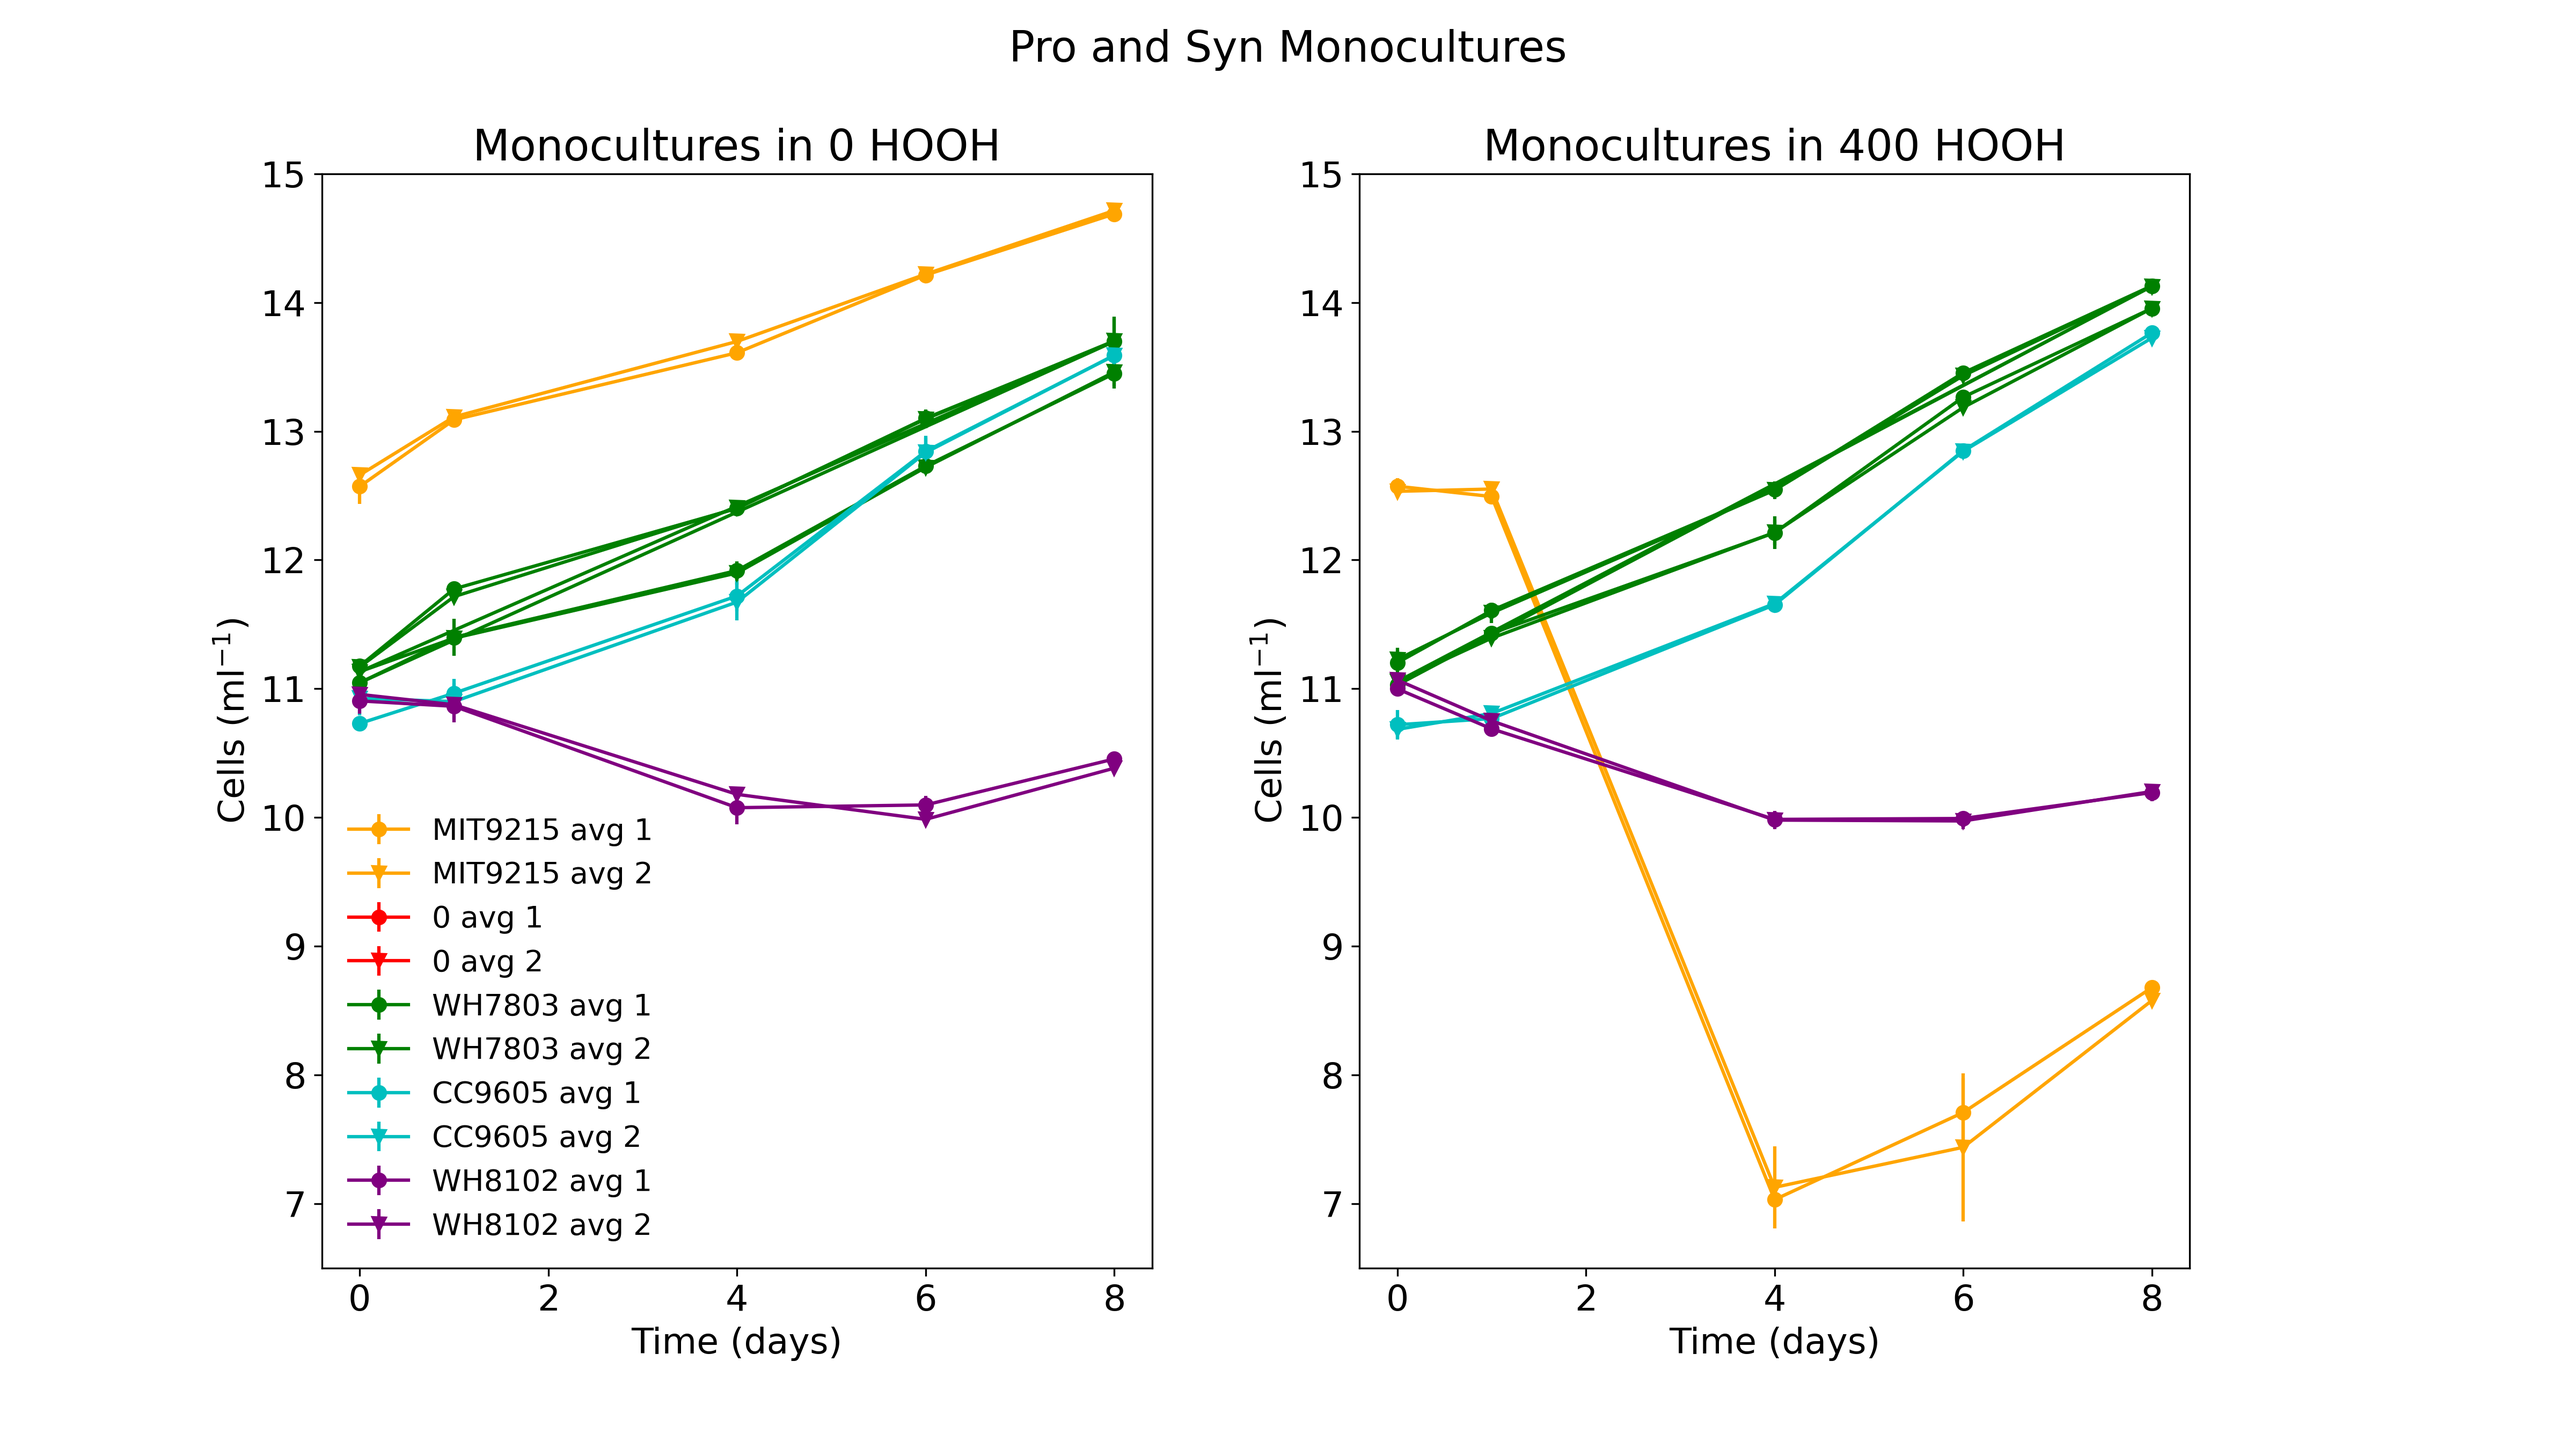
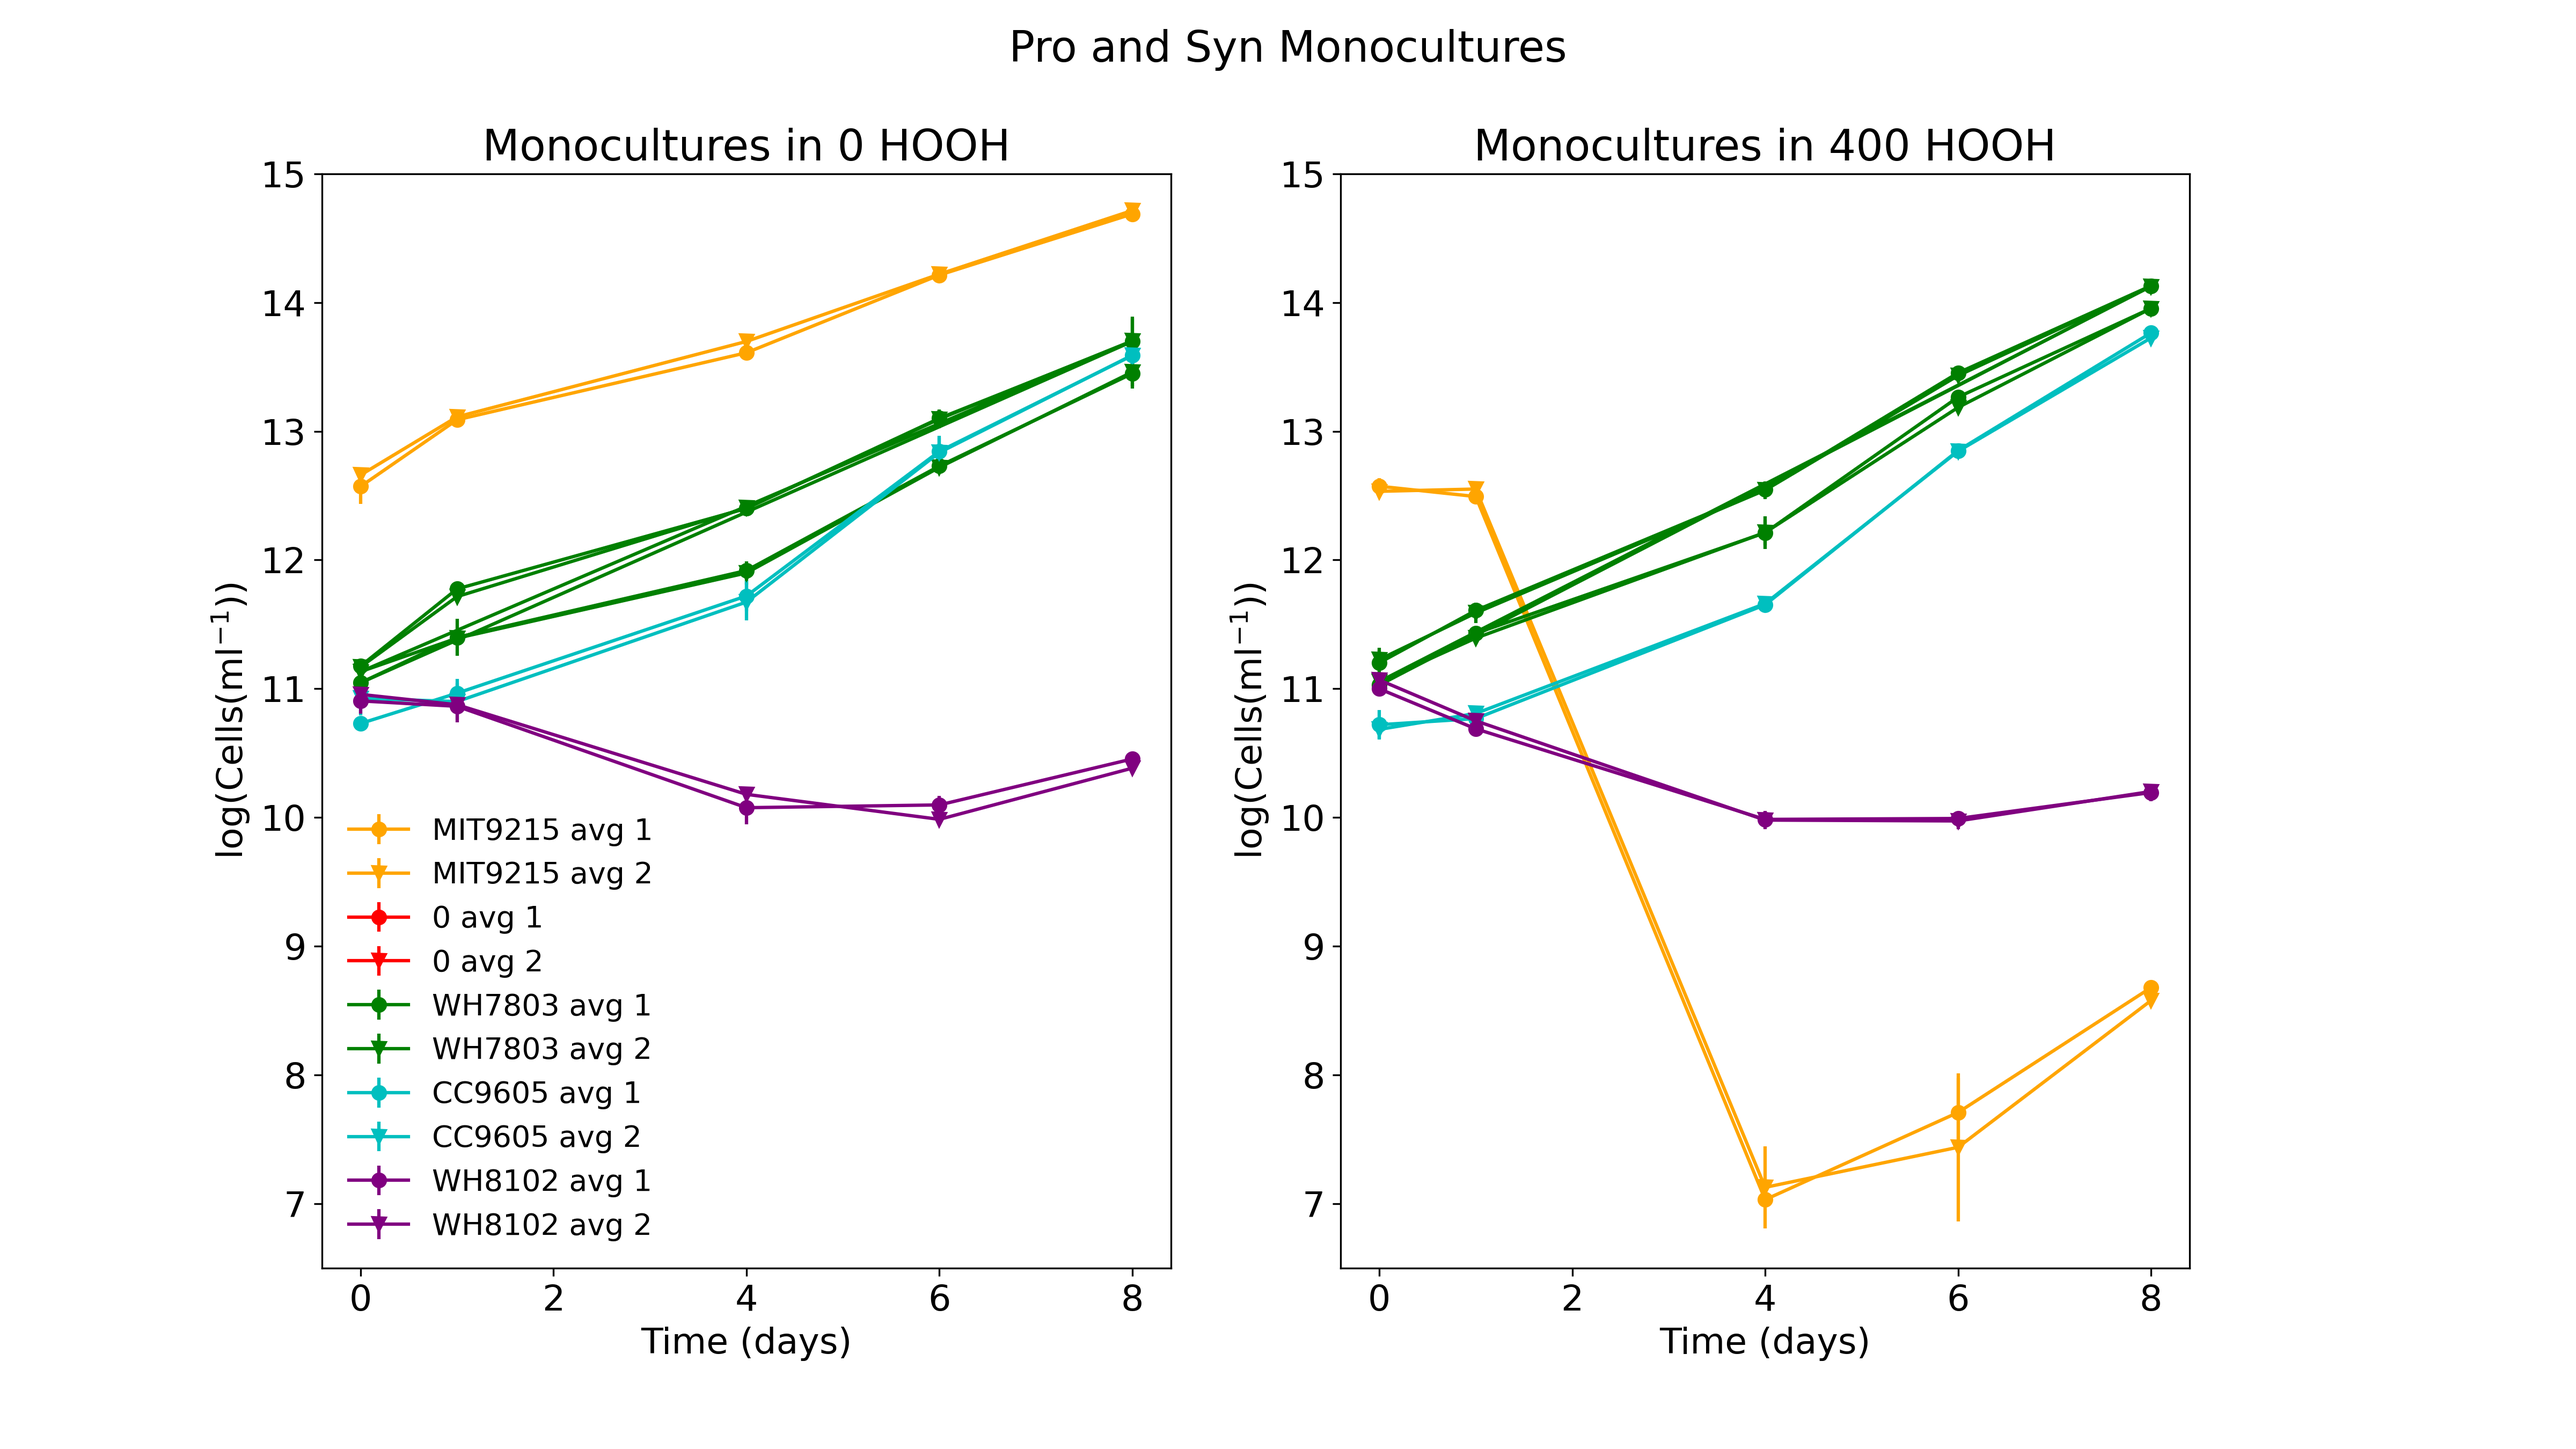
fig saved

diff --git a/src/model_pro_batch.py b/src/model_pro_batch.py
@@ -60,7 +60,7 @@ for (S,si) in zip(strains,range(nstrains)):
     l1.draw_frame(False)
     
 # make space on the right for annotation (e.g. ROS=0, etc.)
-fig1.subplots_adjust(right=0.85, wspace = 0.25, hspace = 0.25)
+fig1.subplots_adjust(right=0.85, wspace = 0.20, hspace = 0.25)
 
 # titles and labels 
 ax0.set_title('Monocultures in 0 HOOH')
@@ -68,7 +68,7 @@ ax1.set_title('Monocultures in 400 HOOH')
 
 ax0.set_xlabel('Time (days)')
 ax1.set_xlabel('Time (days)')
-ax0.set_ylabel('Cells (ml$^{-1}$)')
-ax1.set_ylabel('Cells (ml$^{-1}$)')
+ax0.set_ylabel('log(Cells(ml$^{-1}$))')
+ax1.set_ylabel('log(Cells(ml$^{-1}$))')
 
 fig1.savefig('../figures/mono_all_graphed')
